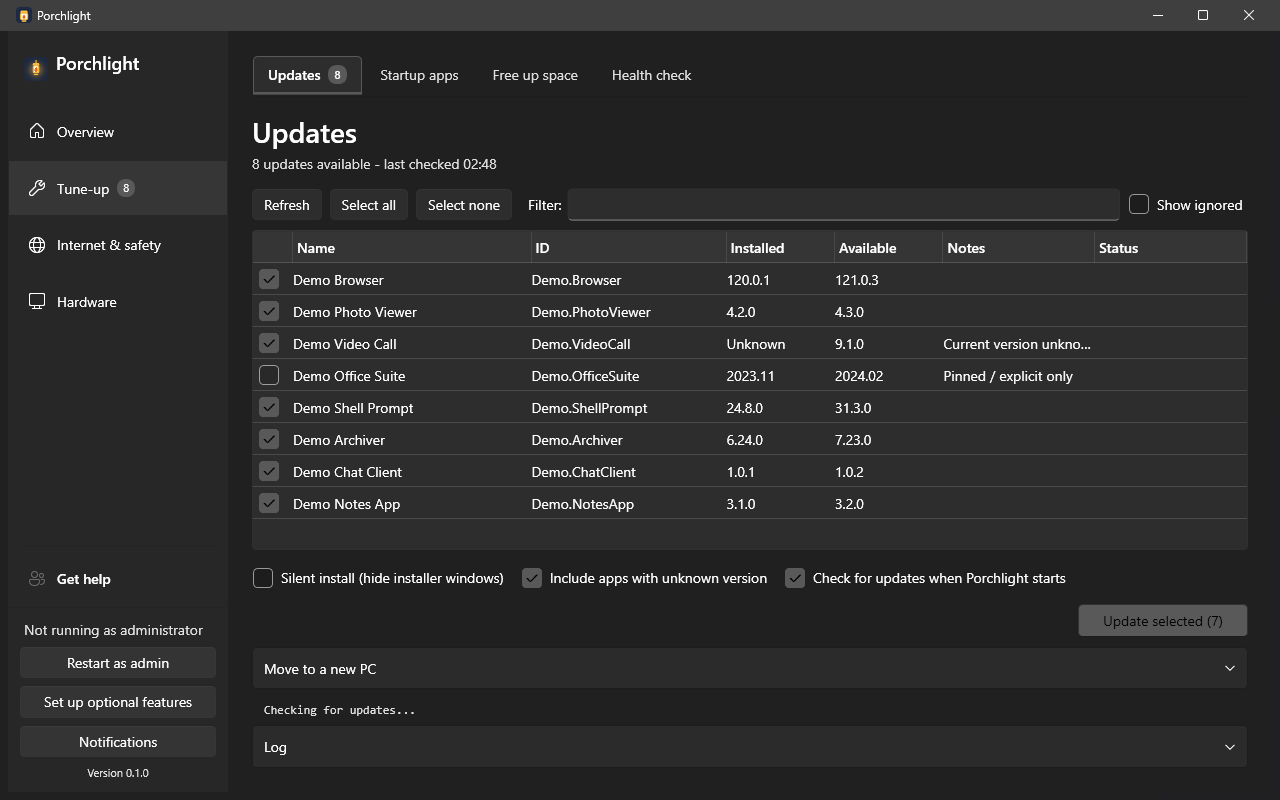
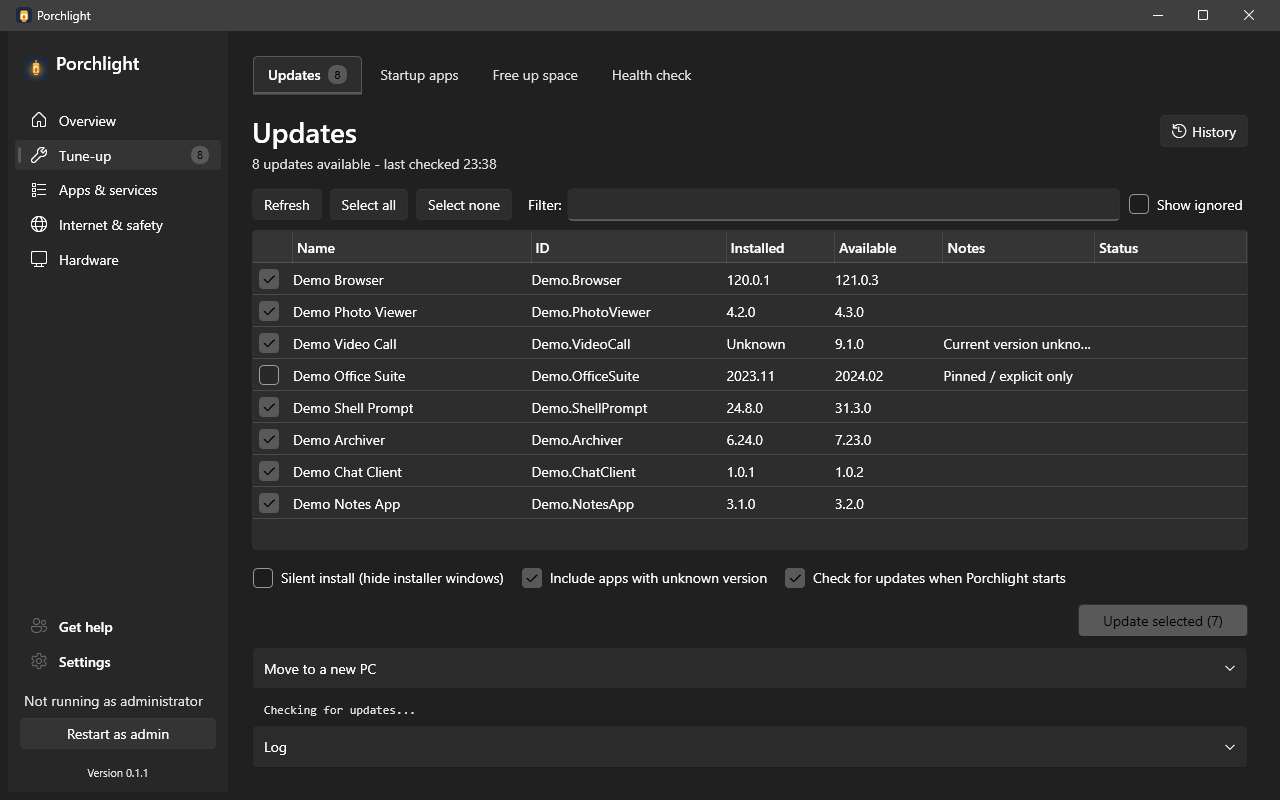
docs: guides and screenshots for the roadmap features; demo-mode fixes (#69)
* fix(dev): let a DEBUG demo run start alongside a running Porchlight

* fix(dev): demo mode hides which lighting software is really running

* docs: guides, screenshots and changelog for Apps & services, update history and startup impact

New page guides for Get apps, Running apps and Services; Updates and
Startup apps guides cover history, impact and logon tasks. README tour,
FEATURES, CHANGELOG, ROADMAP and CONTRIBUTING updated. All screenshots
retaken in DEBUG demo mode with the new navigation rail.

---------

diff --git a/src/Porchlight.App/Shell/SingleInstanceGuard.cs b/src/Porchlight.App/Shell/SingleInstanceGuard.cs
@@ -1,5 +1,6 @@
 using System.IO;
 using System.Security;
+using Porchlight.Core.Settings;
 using Serilog;
 
 namespace Porchlight.App.Shell;
@@ -13,8 +14,14 @@ namespace Porchlight.App.Shell;
 /// </summary>
 public sealed class SingleInstanceGuard : IDisposable
 {
-    private const string MutexName = "Local\\PorchlightSingleInstance";
-    private const string ActivateEventName = "Local\\PorchlightActivate";
+    // A DEBUG demo/test run (AppDataPaths.IsOverridden, always false in Release) uses its own names,
+    // so it starts alongside a real, running Porchlight instead of just activating it - see
+    // CONTRIBUTING.md's "Screenshots" section.
+    private static readonly string MutexName =
+        AppDataPaths.IsOverridden ? "Local\\PorchlightSingleInstance-dev" : "Local\\PorchlightSingleInstance";
+
+    private static readonly string ActivateEventName =
+        AppDataPaths.IsOverridden ? "Local\\PorchlightActivate-dev" : "Local\\PorchlightActivate";
 
     /// <summary>How long a second instance waits for the first to finish exiting before assuming it
     /// is staying, signalling it and giving up.</summary>

diff --git a/src/Porchlight.Core/Lighting/Demo/DemoLightingConflictDetector.cs b/src/Porchlight.Core/Lighting/Demo/DemoLightingConflictDetector.cs
@@ -1,0 +1,14 @@
+#if DEBUG
+namespace Porchlight.Core.Lighting.Demo;
+
+/// <summary>
+/// DEBUG-only demo stand-in for <see cref="LightingConflictDetector"/>: reports no conflicts, so a
+/// documentation screenshot never shows which lighting software (G HUB, Armoury Crate, ...) is
+/// really running on the machine taking it. See <see cref="Monitoring.Demo.DemoDataMode"/>.
+/// </summary>
+public sealed class DemoLightingConflictDetector : ILightingConflictDetector
+{
+    public Task<IReadOnlyList<LightingConflictWarning>> DetectAsync(CancellationToken cancellationToken) =>
+        Task.FromResult<IReadOnlyList<LightingConflictWarning>>([]);
+}
+#endif

diff --git a/src/Porchlight.Core/Lighting/LightingServiceCollectionExtensions.cs b/src/Porchlight.Core/Lighting/LightingServiceCollectionExtensions.cs
@@ -33,6 +33,7 @@ public static class LightingServiceCollectionExtensions
         if (Monitoring.Demo.DemoDataMode.IsEnabled)
         {
             services.AddSingleton<ILightingService, Demo.DemoLightingService>();
+            services.AddSingleton<ILightingConflictDetector, Demo.DemoLightingConflictDetector>();
             return services;
         }
 #endif

diff --git a/docs/FEATURES.md b/docs/FEATURES.md
@@ -2,7 +2,7 @@
 
 A technical reference of what Porchlight does. For a friendlier walk through each page, see the [page guides](../README.md#pages).
 
-- App shell with a navigation rail of six entries - Overview, Tune-up (Updates, Startup apps, Free up space, Health check), Internet & safety (Internet, Browser add-ons),
+- App shell with a navigation rail of seven entries - Overview, Tune-up (Updates, Startup apps, Free up space, Health check), Apps & services (Get apps, Running apps, Services), Internet & safety (Internet, Browser add-ons),
   Hardware (Sensors & fans, Lighting) Get help (Get help, Web console) and Settings (General, Notifications, Optional features; both of the last two are pinned at the bottom) - with a tab row above the page for categories that hold more than one, following
   Windows light/dark theme, with the app version shown in the sidebar footer.
 - Browser add-ons page: read-only list of the add-ons installed in Edge, Chrome, Brave and Firefox
@@ -103,8 +103,13 @@ A technical reference of what Porchlight does. For a friendlier walk through eac
   "What is this?" line, and marks Windows/Microsoft items and Porchlight's own tools (AnyDesk,
   OpenRGB) as "Recommended to keep". Turn items off and on exactly like Task Manager (the
   `StartupApproved` value): nothing is ever deleted, so it is always reversible, and no startup
-  program is ever launched. Items for all users need administrator rights. No startup-impact rating
-  and no scheduled tasks are shown (see `specs/13-startup-apps.md`).
+  program is ever launched. Items for all users need administrator rights (see `specs/13-startup-apps.md`).
+  Each item shows a High / Medium / Low startup impact from Windows' own StartupInfo measurements
+  (Task Manager's thresholds: more than 1 s CPU or 3 MB disk is high, under 300 ms and 300 KB is low),
+  with "Sort by impact"; reading them needs administrator rights, otherwise items show "Not measured".
+  Scheduled tasks with a logon trigger (outside `\Microsoft\Windows\`, and not Porchlight's own) are
+  listed as "Scheduled task" items and turned off/on through the task's Enabled flag only
+  (see `specs/30-startup-impact-and-tasks.md`).
 - Health check: a plain-language page with five cards - disk health (per physical disk: Healthy /
   Warning - back up your files soon / Unknown, from Windows' storage and failure-prediction data);
   Windows repair (`sfc /scannow`, then `DISM /RestoreHealth` offered only if SFC couldn't fix everything;
@@ -141,3 +146,21 @@ A technical reference of what Porchlight does. For a friendlier walk through eac
   new key any time to lock out old links). Off by default; port 8765 unless you pick another. Use it
   on your home network, or through a VPN such as Tailscale when away - don't forward the port on
   your router. See `specs/21-web-console.md`.
+- Update history (Updates page): every update, reinstall and install run from Porchlight (including
+  Get apps) is logged with the version change, action, result and time, and shown grouped by day
+  behind a "History" button, with "Clear history". Stored in its own `update-history.json` (last 500
+  entries, atomic writes, a corrupt file is set aside instead of crashing). See `specs/26-update-history.md`.
+- Get apps: searches the `winget` community catalog (`winget search --source winget`), marks apps
+  that are already installed, and installs one app at a time with live progress and a plain-language
+  result; a curated "Popular apps" list shows while the search box is empty. Only ids from the
+  current results can be installed, and a running install is never cancelled. See `specs/27-get-apps.md`.
+- Running apps: live list of running programs grouped by executable (Apps / Background / Windows),
+  with CPU % and memory, refreshed every 2 s only while the page is shown, a filter and sorting.
+  "End task" asks first, refuses Windows and critical processes and Porchlight itself, and checks
+  each process's start time so a reused process id is never ended; "Open file location" selects the
+  file in Explorer. See `specs/28-running-apps.md`.
+- Services: lists services from other apps (Windows' own are hidden by default and read-only) with
+  plain descriptions, publisher, status and start type, and can start, stop, restart or change the
+  start type of third-party services when running as administrator. Driver services and Microsoft
+  services are never changed; stopping a service with running dependents is refused. See
+  `specs/29-windows-services.md`.

diff --git a/docs/pages/startup-apps.md b/docs/pages/startup-apps.md
@@ -2,23 +2,32 @@
 
 **Where to find it:** Tune-up > Startup apps.
 
-These are the programs that start by themselves when you sign in to Windows. Too many of them makes a PC slow to start. This page lists them in plain language and lets you turn each one off (or back on). Turning one off does not uninstall it, and you can turn it back on here at any time.
+These are the programs that start by themselves when you sign in to Windows. Too many of them makes a PC slow to start. This page lists them in plain language, shows how much each one slows the start down, and lets you turn each one off (or back on). Turning one off does not uninstall it, and you can turn it back on here at any time.
+
+![Startup apps page listing programs with their publisher, impact, a hint and On/Off status with Turn off buttons](../screenshots/startup-apps.png)
+
+*(Screenshot uses made-up demo data, not a real PC.)*
 
 ## What's on the page
 
 - **Introduction** - a reminder that nothing is removed.
-- **Summary line and Refresh** - how many programs start automatically, and a button to re-read the list.
+- **Summary line and Refresh** - how many programs start automatically, how many have a high impact, and a button to re-read the list.
+- **Sort by impact** - puts the programs that slow the start down most at the top.
+- **Impact note** - Windows keeps the startup measurements in a protected folder. When Porchlight isn't running as administrator, every program shows "Not measured" and one line offers **Restart as administrator** to see them.
 - **Administrator banner** - shown when Porchlight is not running as administrator. Some startup entries (those that apply to every user of the PC) can only be changed with admin rights; use **Restart as admin** in the left menu.
 - **Message / error line** - confirmation after you change something, or a note if a change did not work.
 - **Empty state** - "Nothing starts automatically. Your PC should start quickly." when the list is empty.
 
+Porchlight's own "start when I sign in" task is not listed here; use **Settings > General** for it.
+
 ## Each program in the list
 
-- **Name**, with the **publisher** and who it starts for: **Your account** (just you) or **All users** (everyone who signs in to this PC).
+- **Name**, with the **publisher** and where it comes from: **Your account** (just you), **All users** (everyone who signs in to this PC) or **Scheduled task** (a task in Windows' Task Scheduler that runs when you sign in).
+- **Impact** - **High**, **Medium** or **Low impact**, from Windows' own measurements of recent starts, using the same rules as Task Manager: high means more than 1 second of processor time or more than 3 MB read from or written to disk while the PC starts; low means under 0.3 seconds and under 300 KB. **Not measured** means Windows has no data for it (or Porchlight can't read it - see above).
 - **A hint** - a short plain-language note about what the program is.
 - **Recommended to keep** - a green tick on things Porchlight thinks you should leave on (for example security software).
 - **Status** - whether it currently starts with Windows.
-- **Turn off / Turn on button** - switches it. It is greyed out when it cannot be changed.
+- **Turn off / Turn on button** - switches it. It is greyed out when it cannot be changed. For a scheduled task, this turns the task off in Task Scheduler (the same as its Disable option); the task itself is kept.
 - **Needs administrator** - shown under the button when changing that entry requires admin rights.
 
 ---

diff --git a/docs/pages/get-apps.md b/docs/pages/get-apps.md
@@ -1,0 +1,42 @@
+# Get apps
+
+**Where to find it:** Apps & services > Get apps.
+
+Installing a program usually means a web search and a download page full of look-alike "Download"
+buttons - an easy way to end up with the wrong thing. Get apps installs programs straight from the
+official Windows package catalog (`winget`), so there is nothing to download by hand.
+
+![Get apps page with a search box and a list of popular apps, each with an Install button](../screenshots/get-apps.png)
+
+*(Screenshot uses made-up demo data, not a real PC.)*
+
+## What's on the page
+
+- **Search box and Search button** - type at least two letters of the program's name and press
+  **Enter** or **Search**. Searching takes a few seconds; a progress bar shows while it runs.
+- **Popular apps** - shown while the search box is empty: a short list of well-known programs
+  (Chrome, Firefox, VLC, 7-Zip, Zoom, Spotify, Adobe Acrobat Reader, Notepad++, Discord).
+- **Results** - up to 50 matches, each with its name, version and catalog ID.
+- **Message line** - how many apps were found, "No apps found..." with a tip, or a plain note if
+  `winget` isn't available on this PC.
+
+## Each app in the list
+
+- **Install** - installs the app. Only one app installs at a time; the other Install buttons wait
+  until it finishes. A line under the app shows what the installer is doing.
+- **Installed** - shown instead of the button when the app is already on the PC.
+- **Result** - "Installed", "Installed. Restart your PC to finish.", or a plain sentence saying
+  what went wrong and what to try next.
+
+Some installers show their own window or ask for administrator approval (a Windows prompt). If
+**Silent install** is ticked on the Updates page, installers run without their own window where
+they can. An install that has started is never stopped half way; if you try to close Porchlight
+during one, it warns you first.
+
+Every finished install also appears in the Updates page's [history](updates.md#update-history).
+
+Only the community `winget` catalog is searched - not the Microsoft Store.
+
+---
+
+[Back to the page list](../../README.md#pages)

diff --git a/README.md b/README.md
@@ -22,6 +22,14 @@ Screenshots use made-up demo data, not a real PC.
 
 ![Updates page listing programs with newer versions, with checkboxes and an Update selected button](docs/screenshots/updates.png)
 
+**Apps & services > Running apps** - what's slowing it down right now?
+
+![Running apps page listing programs grouped into Apps and Background with their CPU and memory use and an End task button](docs/screenshots/running-apps.png)
+
+**Apps & services > Get apps** - install a program safely, without hunting for a download page.
+
+![Get apps page with a search box and popular apps, each with an Install button](docs/screenshots/get-apps.png)
+
 **Hardware > Sensors & fans** - is it running hot?
 
 ![Hardware page with temperature, power and fan tiles above collapsed cards for each part](docs/screenshots/hardware.png)
@@ -38,10 +46,15 @@ Each link opens a guide that explains everything on that page.
 - [Dashboard](docs/pages/dashboard.md) - live stats, drive space, busiest programs.
 
 **Tune-up**
-- [Updates](docs/pages/updates.md) - see and install program updates.
-- [Startup apps](docs/pages/startup-apps.md) - choose what starts with Windows.
+- [Updates](docs/pages/updates.md) - see and install program updates, and look back at what was updated.
+- [Startup apps](docs/pages/startup-apps.md) - see what slows down sign-in and choose what starts with Windows.
 - [Free up space](docs/pages/free-up-space.md) - clear leftovers and find what fills a drive.
 - [Health check](docs/pages/health-check.md) - disk and battery health, Windows repair, recent problems.
+
+**Apps & services**
+- [Get apps](docs/pages/get-apps.md) - search for a program and install it from the official catalog.
+- [Running apps](docs/pages/running-apps.md) - what's running, how much it uses, and close a stuck program.
+- [Services](docs/pages/services.md) - background helpers that other programs installed; stop or turn off the ones you don't need.
 
 **Internet & safety**
 - [Internet](docs/pages/internet.md) - connection details, "fix my internet", speed test.

diff --git a/docs/pages/services.md b/docs/pages/services.md
@@ -1,0 +1,38 @@
+# Services
+
+**Where to find it:** Apps & services > Services.
+
+Many programs install a *service* - a helper that runs in the background all the time, for example
+to check for updates or sync files. This page explains each one in plain words and lets you stop or
+turn off the ones that came with other programs, without letting you break Windows.
+
+![Services page listing services from other apps with their publisher, description, status and start options, below an administrator banner](../screenshots/services.png)
+
+*(Screenshot uses made-up demo data, not a real PC.)*
+
+## What's on the page
+
+- **Summary line and Refresh** - how many services from other apps there are and how many are running.
+- **Filter** - search by name, publisher or description.
+- **Show Windows services** - also lists Windows' own services. They are shown for information only
+  and can't be changed here.
+- **Administrator banner** - changing a service needs administrator rights. When Porchlight isn't
+  running as administrator, the buttons are greyed out and the banner offers **Restart as administrator**.
+
+## Each service
+
+- **Name**, **publisher** and a one-line **description**.
+- **Status** - Running, Stopped, Starting... or Stopping..., shown with an icon and a word.
+- **Start option** - when the service starts:
+  - **Starts with Windows** - every time the PC starts.
+  - **Starts when needed** - only when a program asks for it.
+  - **Turned off** - never.
+- **Start**, **Stop** and **Restart** buttons.
+
+Stopping a service or turning it off asks first, because the program that installed it may not work
+properly until you turn it back on. A service that other services depend on can't be stopped here;
+the page names the services that need it.
+
+---
+
+[Back to the page list](../../README.md#pages)

diff --git a/docs/pages/running-apps.md b/docs/pages/running-apps.md
@@ -1,0 +1,40 @@
+# Running apps
+
+**Where to find it:** Apps & services > Running apps.
+
+"Why is my PC slow?" This page shows what is running right now and how much of the PC each program
+uses, and lets you close a program that has stopped responding.
+
+![Running apps page listing programs grouped into Apps and Background, each with CPU and memory use and End task and Open file location buttons](../screenshots/running-apps.png)
+
+*(Screenshot uses made-up demo data, not a real PC.)*
+
+## What's on the page
+
+- **Summary line** - total CPU and memory in use, e.g. "CPU 23% · Memory 9.4 GB of 16 GB in use".
+- **Filter** - type part of a program's name to narrow the list.
+- **Sort by** - CPU (the default), memory or name.
+- The list refreshes every 2 seconds while you are on this page, and stops when you leave it.
+
+## The list
+
+Programs are grouped the way Task Manager does: a program with many parts (a web browser often has
+a dozen) is one row, with the number of parts in brackets and their CPU and memory added together.
+The rows are in three sections:
+
+- **Apps** - programs with a window open.
+- **Background** - programs running without a window (sync tools, updaters, helpers).
+- **Windows** - parts of Windows itself. This section starts collapsed.
+
+Each row has:
+
+- **CPU** and **memory** use.
+- **Open file location** - opens File Explorer with the program's file selected.
+- **End task** - closes the program after asking first ("Unsaved work in it will be lost."). It is
+  greyed out for Windows' own programs and for Porchlight itself, because closing those can make
+  the PC unstable. Some programs need Porchlight to run as administrator before they can be closed;
+  the page says so when that happens.
+
+---
+
+[Back to the page list](../../README.md#pages)

diff --git a/CONTRIBUTING.md b/CONTRIBUTING.md
@@ -81,8 +81,12 @@ made-up data - everything else in the app runs normally:
   control anything real (`src/Porchlight.Core/Hardware/Demo/DemoHardwareService.cs`,
   `HardwareServiceCollectionExtensions.AddHardwareCore`).
 - Lighting: `ILightingService`, reporting a fixed, made-up device list instead of connecting to a
-  real OpenRGB SDK server (`src/Porchlight.Core/Lighting/Demo/DemoLightingService.cs`,
-  `LightingServiceCollectionExtensions.AddLightingCore`).
+  real OpenRGB SDK server, and `ILightingConflictDetector`, reporting no conflicting lighting software
+  (`src/Porchlight.Core/Lighting/Demo/`, `LightingServiceCollectionExtensions.AddLightingCore`).
+- Update history: a made-up week of history (`src/Porchlight.Core/Winget/Demo/FakeUpdateHistoryStore.cs`).
+- Startup apps, Running apps and Services: made-up lists that never read or change the real startup
+  items, processes or services (`src/Porchlight.Core/Startup/Demo/`, `src/Porchlight.Core/RunningApps/Demo/`,
+  `src/Porchlight.Core/WindowsServices/Demo/`).
 
 The check and every fake above only exist in a DEBUG build (`#if DEBUG`); a Release build - what CI
 compiles and what a release ships - is unaffected and does not contain this code at all. Unset the
@@ -106,6 +110,9 @@ animations, fan-control marker). Every per-user path comes from one place,
 $env:PORCHLIGHT_DATA_DIR = "$env:TEMP\porchlight-check"
 dotnet run -c Debug --project src/Porchlight.App
 ```
+
+A run with either override also uses its own single-instance lock, so it starts alongside a real,
+running Porchlight instead of just bringing that one to the front.
 
 While either override is active, the one-time `PCManager` -> `Porchlight` folder migration is
 skipped entirely. A Release build ignores both variables. There is no need to back up or restore

diff --git a/CHANGELOG.md b/CHANGELOG.md
@@ -6,6 +6,28 @@ The format is based on [Keep a Changelog](https://keepachangelog.com/en/1.1.0/).
 
 ## [Unreleased]
 
+### Added
+
+- New **Apps & services** section in the left menu with three pages:
+  - **Get apps** - search the official `winget` catalog and install a program in one click, with a
+    list of popular apps (`docs/specs/27-get-apps.md`).
+  - **Running apps** - what's running right now with CPU and memory use, grouped like Task Manager,
+    with a safe "End task" and "Open file location" (`docs/specs/28-running-apps.md`).
+  - **Services** - background services that other programs installed, explained in plain words, with
+    start/stop and start-type changes for non-Windows services (`docs/specs/29-windows-services.md`).
+- **Update history** on the Updates page: every update, reinstall and install run from Porchlight,
+  grouped by day (`docs/specs/26-update-history.md`).
+- **Startup apps** shows a High/Medium/Low startup impact for each item from Windows' own
+  measurements, can sort by it, and also lists scheduled tasks that run at sign-in, which can be
+  turned off and on (`docs/specs/30-startup-impact-and-tasks.md`).
+
+### Changed
+
+- CI is faster: the installer build runs alongside build-and-test instead of after it, a new push to a
+  pull request cancels its older run, and docs-only pull requests skip the Windows build.
+- DEBUG demo runs (`PORCHLIGHT_DEMO_DATA=1`) can start while a real Porchlight is running, and no
+  longer show which lighting software is really running on the PC.
+
 ## [0.1.1] - 2026-10-02
 
 ### Added

diff --git a/docs/pages/updates.md b/docs/pages/updates.md
@@ -41,6 +41,22 @@ When a row is selected, a details strip appears with its status explanation and 
 
 Helps when you get a new computer. **Save my app list...** writes the list of installed programs to a file; on the new PC, **Install apps from a list...** reads that file, shows you what will be installed, and installs it once you click **Install these apps**.
 
+## Update history
+
+The **History** button at the top right switches the page to a list of every update, reinstall and
+install Porchlight has run - including apps installed from [Get apps](get-apps.md) - grouped by day
+("Today", "Yesterday", then the date), newest first.
+
+![Update history grouped by day, each row with the app, the version change, what was done, the result and the time](../screenshots/update-history.png)
+
+Each row shows the app, the version change (for example "1.2.0 → 1.3.1"), what was done (Updated,
+Reinstalled or Installed), the result (**Done** or **Didn't work**, with the reason underneath) and
+the time. **Clear history** empties the list after asking first; **Back to updates** returns to the
+list of available updates.
+
+Only changes made from Porchlight are listed - not updates that Windows or a program installed by
+itself. The history is kept on this PC only, up to the last 500 entries.
+
 ## Log (collapsed section)
 
 The detailed output from the update tool, for troubleshooting or to show a helper. **Open log folder** opens the folder where logs are kept; **Clear** empties the on-screen log.
